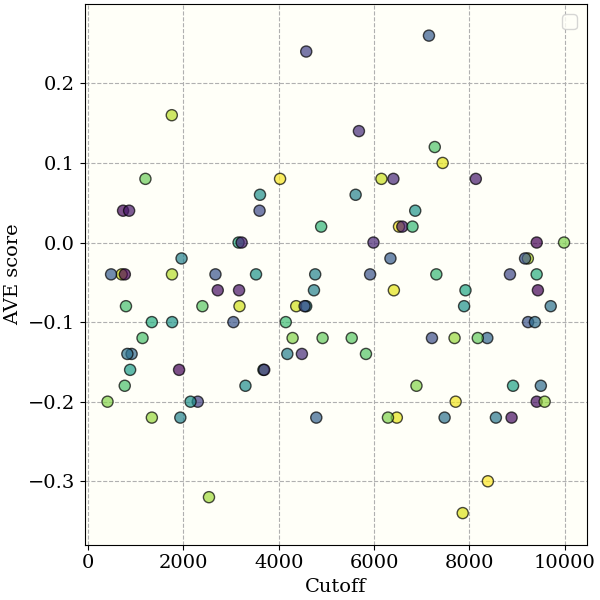
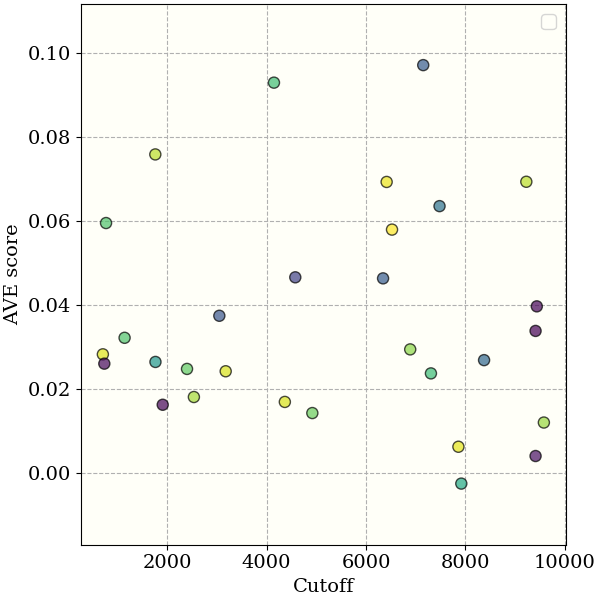
fixed ave calc

diff --git a/code/graph_cluster.py b/code/graph_cluster.py
@@ -46,7 +46,7 @@ cutoffs = list()
 aves = list()
 sizes = list()
 
-for _ in tqdm(range(100)):
+for _ in tqdm(range(30)):
     #choose a random target:
     idx = np.random.choice(y_.shape[1])
 
@@ -94,10 +94,10 @@ for _ in tqdm(range(100)):
     aTest_aTrain_D = actives[:,actives_train_indices].min(1)
     aTest_iTrain_D = actives[:,new_inactives_train_indices].min(1)
 
-    aTest_aTrain_S = np.mean( [ np.mean( np.any( aTest_aTrain_D < t, axis=0 ) ) for t in np.linspace( 0, 1.0, 50 ) ] )
-    aTest_iTrain_S = np.mean( [ np.mean( np.any( aTest_iTrain_D < t, axis=0 ) ) for t in np.linspace( 0, 1.0, 50 ) ] )
-    iTest_iTrain_S = np.mean( [ np.mean( np.any( iTest_iTrain_D < t, axis=0 ) ) for t in np.linspace( 0, 1.0, 50 ) ] )
-    iTest_aTrain_S = np.mean( [ np.mean( np.any( iTest_aTrain_D < t, axis=0 ) ) for t in np.linspace( 0, 1.0, 50 ) ] )
+    aTest_aTrain_S = np.mean( [ np.mean( aTest_aTrain_D < t ) for t in np.linspace( 0, 1.0, 50 ) ] )
+    aTest_iTrain_S = np.mean( [ np.mean( aTest_iTrain_D < t ) for t in np.linspace( 0, 1.0, 50 ) ] )
+    iTest_iTrain_S = np.mean( [ np.mean( iTest_iTrain_D < t ) for t in np.linspace( 0, 1.0, 50 ) ] )
+    iTest_aTrain_S = np.mean( [ np.mean( iTest_aTrain_D < t ) for t in np.linspace( 0, 1.0, 50 ) ] )
 
     ave = aTest_aTrain_S-aTest_iTrain_S+iTest_iTrain_S-iTest_aTrain_S
     
